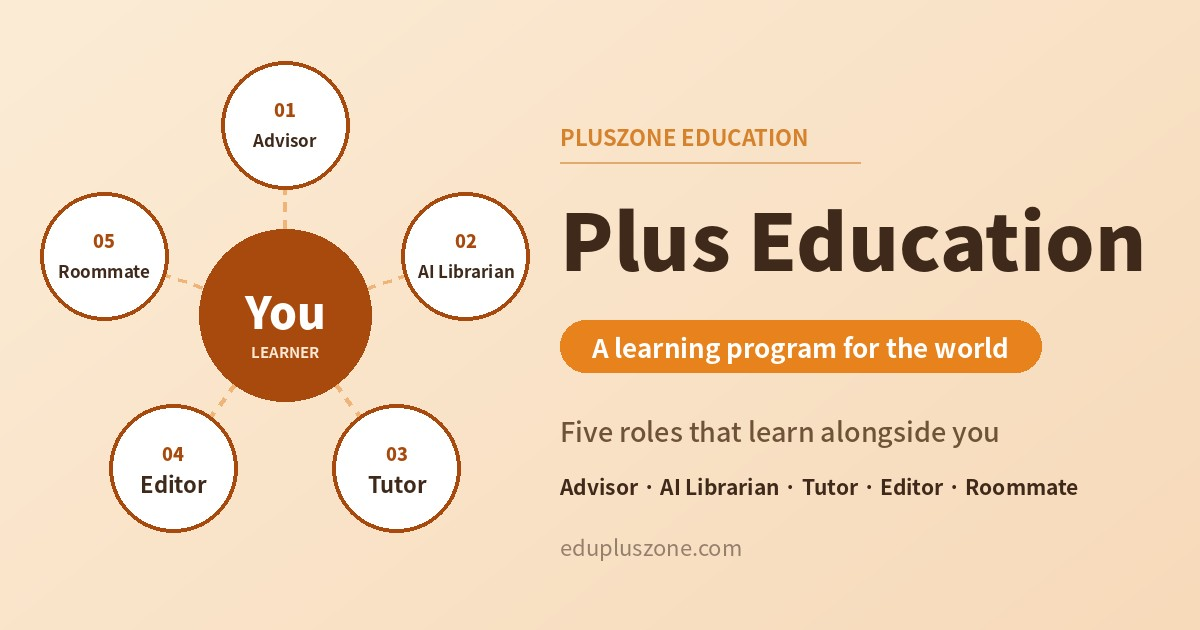
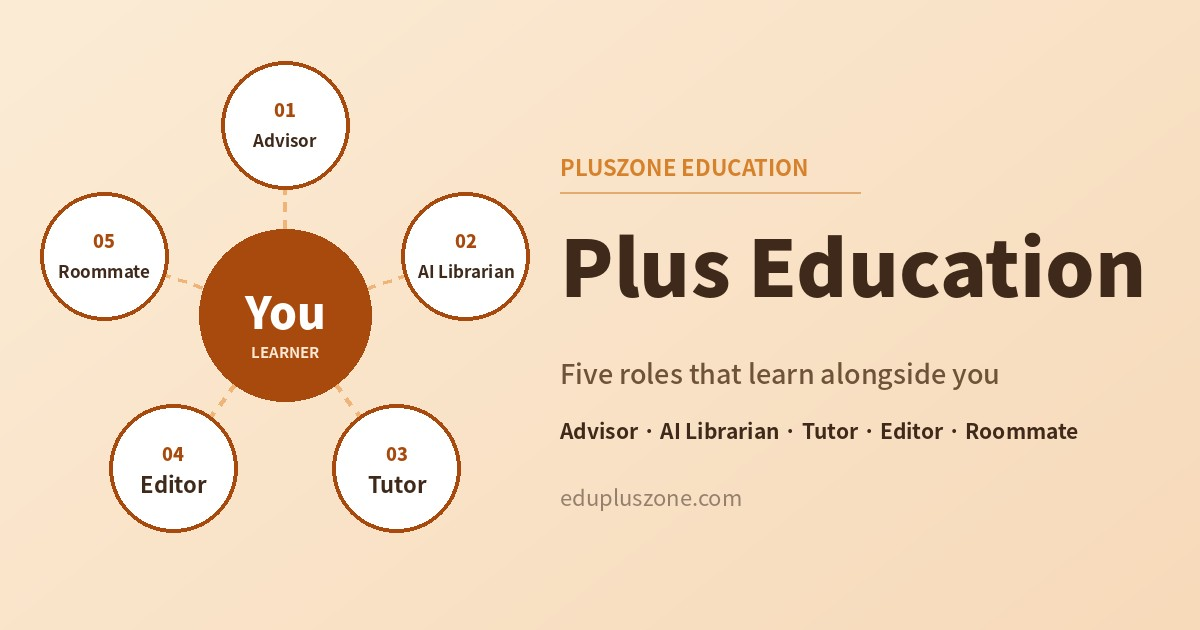
Built site for gh-pages

diff --git a/index.html b/index.html
@@ -6,7 +6,7 @@
 
 <meta name="viewport" content="width=device-width, initial-scale=1.0, user-scalable=yes">
 
-<meta name="description" content="전 세계로 펼치는 플러스 교육 프로그램. 조언자, AI 사서, 튜터, 에디터, 룸메이트 다섯 가지 역할이 한 사람의 배움을 함께합니다.">
+<meta name="description" content="플러스 교육 프로그램. 조언자, AI 사서, 튜터, 에디터, 룸메이트 다섯 가지 역할이 한 사람의 배움을 함께합니다.">
 
 <title>Pluszone Education | 플러스 교육 프로그램</title>
 <style>
@@ -58,12 +58,12 @@ ul.task-list li input[type="checkbox"] {
 
 <link rel="stylesheet" href="styles.css">
 <meta property="og:title" content="플러스 교육 | 다섯 가지 역할이 함께하는 배움">
-<meta property="og:description" content="전 세계로 펼치는 플러스 교육 프로그램. 조언자, AI 사서, 튜터, 에디터, 룸메이트 다섯 가지 역할이 한 사람의 배움을 함께합니다.">
+<meta property="og:description" content="플러스 교육 프로그램. 조언자, AI 사서, 튜터, 에디터, 룸메이트 다섯 가지 역할이 한 사람의 배움을 함께합니다.">
 <meta property="og:image" content="https://edupluszone.com/og-home.jpg">
 <meta property="og:site_name" content="Pluszone Education">
 <meta property="og:locale" content="ko_KR">
 <meta name="twitter:title" content="플러스 교육 | 다섯 가지 역할이 함께하는 배움">
-<meta name="twitter:description" content="전 세계로 펼치는 플러스 교육 프로그램. 조언자, AI 사서, 튜터, 에디터, 룸메이트 다섯 가지 역할이 한 사람의 배움을 함께합니다.">
+<meta name="twitter:description" content="플러스 교육 프로그램. 조언자, AI 사서, 튜터, 에디터, 룸메이트 다섯 가지 역할이 한 사람의 배움을 함께합니다.">
 <meta name="twitter:image" content="https://edupluszone.com/og-home.jpg">
 <meta name="twitter:card" content="summary_large_image">
 </head>
@@ -149,7 +149,6 @@ ul.task-list li input[type="checkbox"] {
     <div class="txt">
       <span class="eyebrow">PLUSZONE EDUCATION</span>
       <h1>플러스 교육</h1>
-      <p class="tagline">전 세계로 펼치는 플러스 교육 프로그램</p>
       <p class="lead">다섯 가지 역할이 한 사람의 배움을 함께합니다. 나를 깊이 이해하는 조언자, 최고의 자료를 모아 주는 AI 사서, 모르는 것을 깨닫게 하는 튜터, 실제 해 본 것에 피드백을 주는 에디터, 생각을 넓혀 주는 룸메이트.</p>
       <a class="buy-btn primary go" href="#roles">다섯 가지 역할 보기</a>
     </div>

diff --git a/english.html b/english.html
@@ -6,7 +6,7 @@
 
 <meta name="viewport" content="width=device-width, initial-scale=1.0, user-scalable=yes">
 
-<meta name="description" content="The Plus Education program, reaching learners around the world. Five roles, Advisor, AI Librarian, Tutor, Editor and Roommate, walk alongside each learner.">
+<meta name="description" content="The Plus Education program. Five roles, Advisor, AI Librarian, Tutor, Editor and Roommate, walk alongside each learner.">
 
 <title>Pluszone Education | The Plus Education Program</title>
 <style>
@@ -58,12 +58,12 @@ ul.task-list li input[type="checkbox"] {
 
 <link rel="stylesheet" href="styles.css">
 <meta property="og:title" content="Plus Education | Five roles that learn alongside you">
-<meta property="og:description" content="The Plus Education program, reaching learners around the world. Five roles, Advisor, AI Librarian, Tutor, Editor and Roommate, walk alongside each learner.">
+<meta property="og:description" content="The Plus Education program. Five roles, Advisor, AI Librarian, Tutor, Editor and Roommate, walk alongside each learner.">
 <meta property="og:image" content="https://edupluszone.com/og-home-en.jpg">
 <meta property="og:site_name" content="Pluszone Education">
 <meta property="og:locale" content="en_US">
 <meta name="twitter:title" content="Plus Education | Five roles that learn alongside you">
-<meta name="twitter:description" content="The Plus Education program, reaching learners around the world. Five roles, Advisor, AI Librarian, Tutor, Editor and Roommate, walk alongside each learner.">
+<meta name="twitter:description" content="The Plus Education program. Five roles, Advisor, AI Librarian, Tutor, Editor and Roommate, walk alongside each learner.">
 <meta name="twitter:image" content="https://edupluszone.com/og-home-en.jpg">
 <meta name="twitter:card" content="summary_large_image">
 </head>
@@ -149,7 +149,6 @@ ul.task-list li input[type="checkbox"] {
     <div class="txt">
       <span class="eyebrow">PLUSZONE EDUCATION</span>
       <h1>Plus Education</h1>
-      <p class="tagline">A learning program reaching learners around the world</p>
       <p class="lead">Five roles walk alongside one learner: an Advisor who understands you deeply, an AI Librarian who gathers the best resources, a Tutor who helps you see what you don't yet know, an Editor who gives feedback on what you've actually tried, and a Roommate who widens your thinking.</p>
       <a class="buy-btn primary go" href="#roles">See the five roles</a>
     </div>
